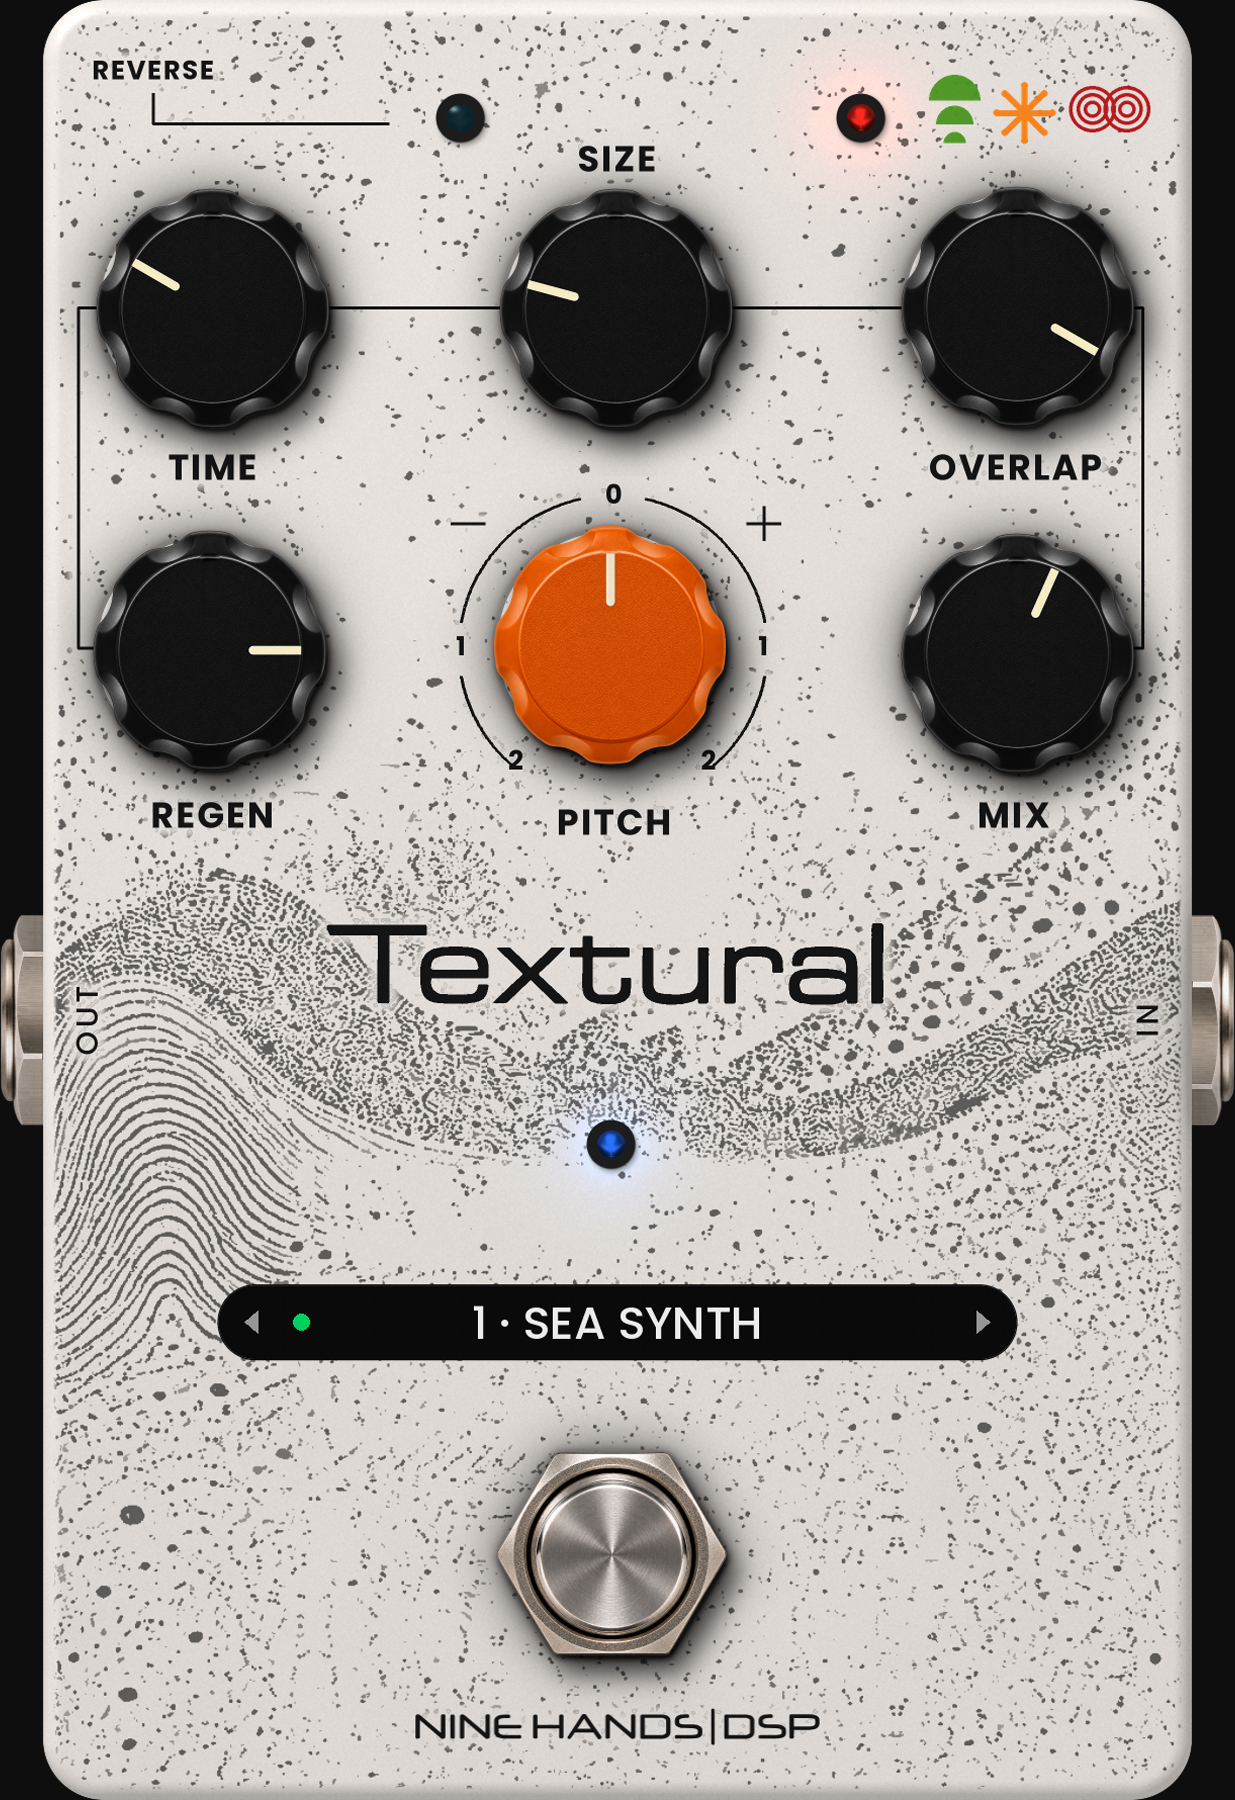
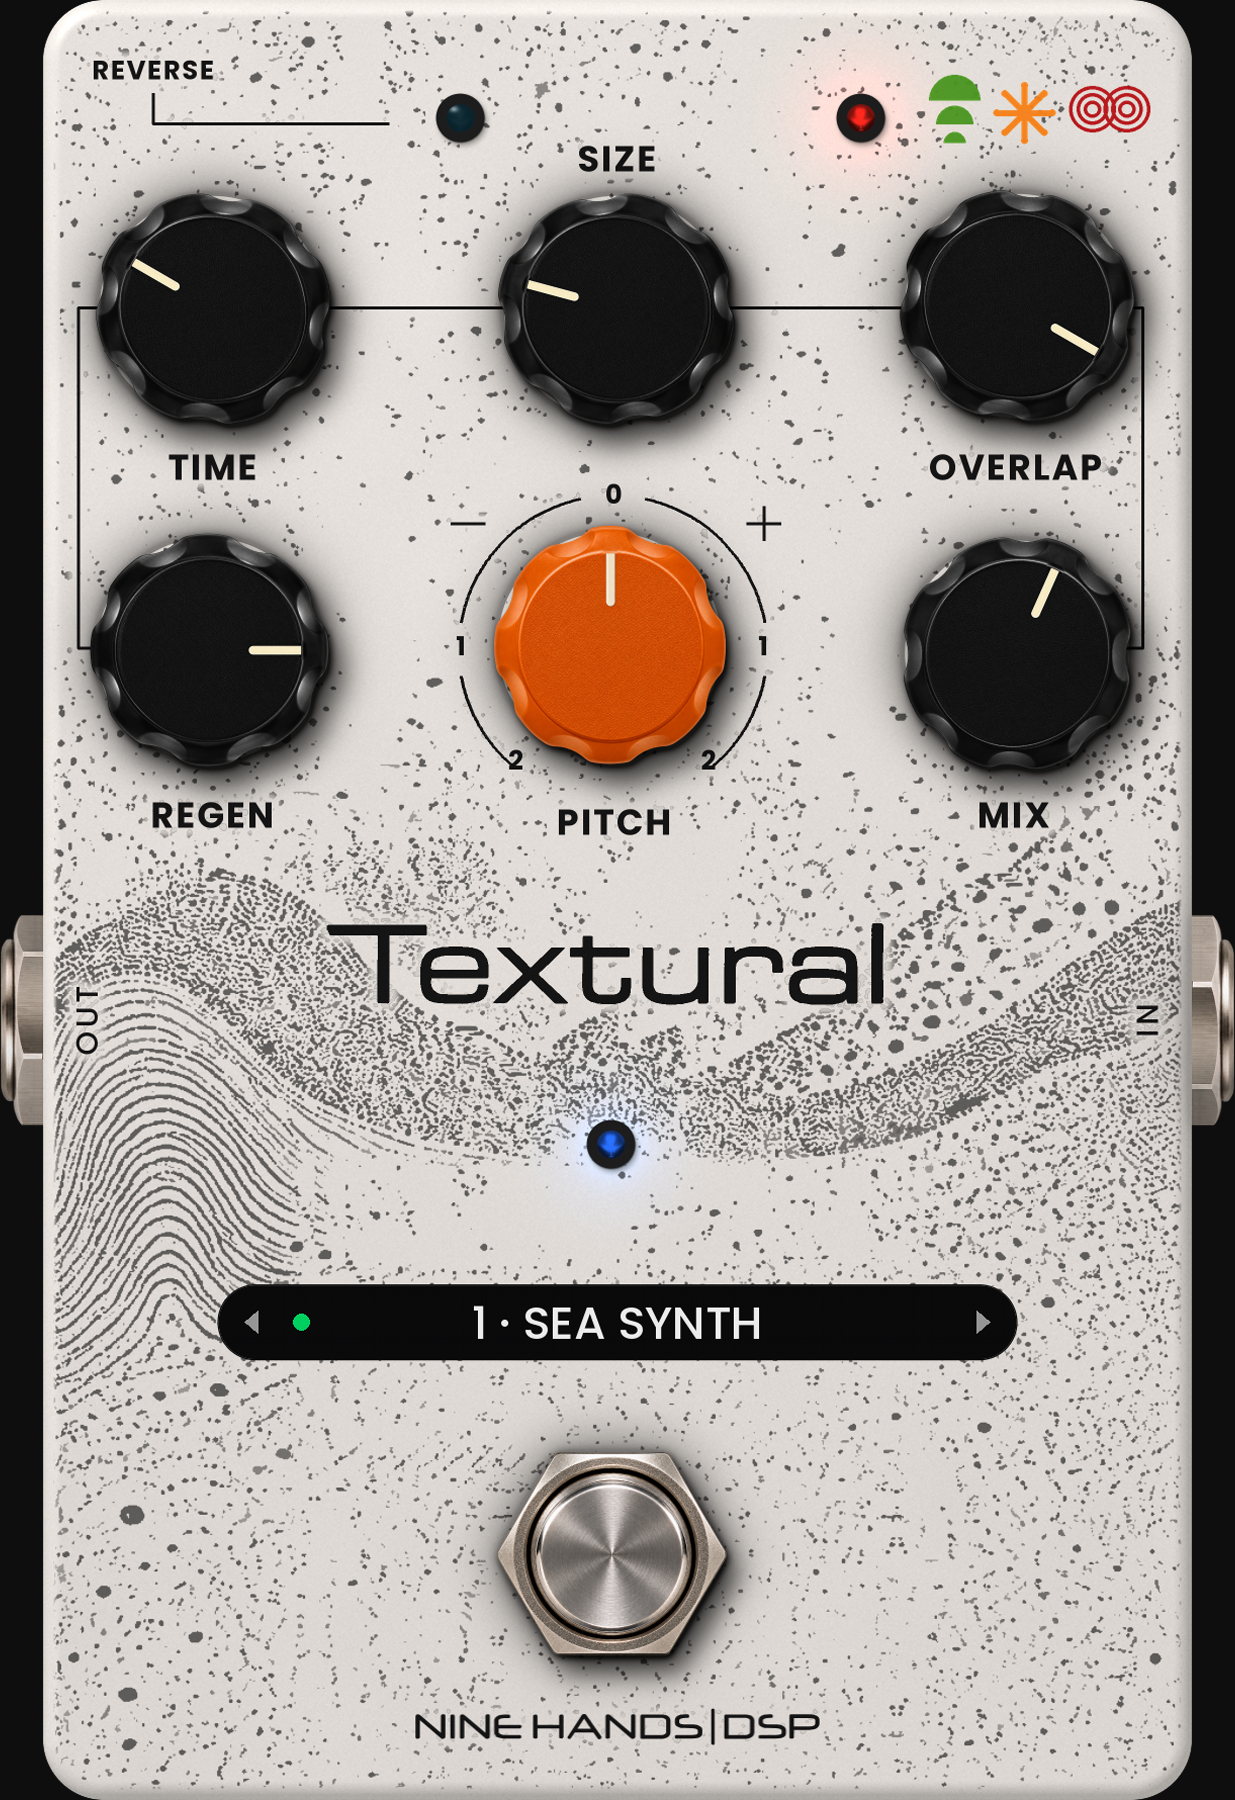
Potards : la couronne tourne avec l'index (lumiere fixe, re-eclairage polaire), flou de mouvement selon la vitesse ; GIF d'apercu
Claude-Session: https://claude.ai/code/session_01DVineguNdVkvZ7sjaqqiCM

diff --git a/tools/make_art.py b/tools/make_art.py
@@ -366,13 +366,54 @@ def knob_parts(name):
     bodyimg = np.dstack([np.clip(body_, 0, 255), a])
     return bodyimg, ind, C, 554.0
 
-def knob_sprite(name, R_units, value):
-    bodyimg, ind, C, RPX = knob_parts(name)
-    S_ = 2 * R_units * 1.45; n = int(round(S_ * AS)); k = R_units * AS / RPX
-    rgb, a = place(bodyimg, C, k, n)
-    spr = with_shadow(rgb, a, 2 * R_units * AS, 0.66)
+# Potard entier qui tourne (chapeau, index ET couronne crantee), lumiere fixe :
+# en coordonnees polaires autour du centre, l'image tourne (decalage en angle) puis est re-eclairee :
+# I(phi) = I0(phi - theta) * Lb(phi) / Lb(phi - theta), Lb = luminance moyennee sur un cran (36 degres, 10 crans).
+# Le detail (crans, cuir, index) tourne ; l'eclairage d'ensemble (haut gauche clair, bas droit sombre) reste en place.
+# Flou de mouvement : moyenne de positions voisines en angle (blur_deg = angle parcouru pendant l'image).
+from scipy.ndimage import uniform_filter1d
+_KPOL = {}
+KNOB_C, KNOB_RPX, NA = (648.0, 651.0), 554.0, 2880          # centre / rayon dans les photos, 8 lignes par degre
+def _knob_polar(name):
+    if name not in _KPOL:
+        bodyimg, ind, _, _ = knob_parts(name)                 # potard sans son index (secteur rempli par un cran voisin)
+        im = bodyimg; pm = im.copy(); pm[..., :3] *= pm[..., 3:4] / 255.0
+        RR = int(KNOB_RPX * 1.06)
+        pol = cv2.warpPolar(pm, (RR, NA), KNOB_C, RR, cv2.WARP_POLAR_LINEAR | cv2.INTER_CUBIC)
+        lum = pol[..., :3].mean(2) + 1.0
+        lb = uniform_filter1d(lum, size=NA // 10, axis=0, mode='wrap')
+        lb = cv2.GaussianBlur(lb, (0, 0), sigmaX=6, sigmaY=0.1)
+        _KPOL[name] = (pol, lb, RR, im.shape[:2], ind)
+    return _KPOL[name]
+def knob_render(name, ang, blur_deg=0.0):
+    """potard tourne de ang degres (sens horaire, 0 = index en haut) ; renvoie rgba non premultiplie (taille photo)"""
+    pol, lb, RR, (hh, ww), ind = _knob_polar(name)
+    nb = max(1, int(round(abs(blur_deg) / 0.75))) if blur_deg else 1
+    offs = np.linspace(-blur_deg / 2, blur_deg / 2, nb) if nb > 1 else [0.0]
+    acc = np.zeros_like(pol)
+    for o in offs:
+        k = int(round((ang + o) * NA / 360.0))
+        rp = np.roll(pol, k, axis=0)
+        ratio = lb / np.roll(lb, k, axis=0)
+        rp[..., :3] *= np.clip(ratio, 0.55, 1.8)[..., None]
+        acc += rp
+    acc /= len(offs)
+    out = cv2.warpPolar(acc, (ww, hh), KNOB_C, RR, cv2.WARP_POLAR_LINEAR | cv2.WARP_INVERSE_MAP | cv2.INTER_CUBIC)
+    _yy, _xx = np.mgrid[0:hh, 0:ww]
+    out[np.hypot(_xx - KNOB_C[0], _yy - KNOB_C[1]) > RR - 2] = 0     # rien hors du disque polaire
+    a = np.clip(out[..., 3:4] / 255.0, 0, 1)
+    rgb = np.where(a > 1e-4, out[..., :3] / np.maximum(a, 1e-4), 0)
+    return np.dstack([np.clip(rgb, 0, 255), a[..., 0] * 255]).astype(np.float32)
+
+def knob_sprite(name, R_units, value, blur_deg=0.0):
+    S_ = 2 * R_units * 1.45; n = int(round(S_ * AS)); k = R_units * AS / KNOB_RPX
     ang = -150 + 300 * value
-    irgb, ia = place(ind, C, k, n, ang)
+    img_ = knob_render(name, ang, blur_deg)
+    rgb, a = place(img_, KNOB_C, k, n)
+    spr = with_shadow(rgb, a, 2 * R_units * AS, 0.66)
+    # index : tourne avec le potard, garde sa propre lumiere (creme), net (il n'a pas de crans)
+    ind = _knob_polar(name)[4]
+    irgb, ia = place(ind, KNOB_C, k, n, ang)
     ia = ia * a
     spr[..., :3] = spr[..., :3] * (1 - ia[..., None]) + irgb * ia[..., None]
     return spr, S_

diff --git a/tools/knob_gif.py b/tools/knob_gif.py
@@ -1,0 +1,22 @@
+import sys, numpy as np
+from PIL import Image
+src = open('/home/claude/textural/tools/make_art.py').read()
+g = {'__file__': '/home/claude/textural/tools/make_art.py'}
+exec(src[:src.index('# ------------------------------------------------------------------ geometrie')], g)
+exec(src[src.index('def knob_parts'):src.index('# occlusion autour des pieces en relief')], g)
+R = 60.0; bg = np.array([222.0, 217.0, 212.0]); CRAN = 36.0
+def frame(name, v, dv):
+    d = abs(dv) * 300.0                                  # degres parcourus pendant l'image
+    t = d / CRAN; lvl = np.clip((t - 0.15) / 0.6, 0, 1.6)
+    blur = 0.0 if lvl <= 0 else min(d, CRAN * 0.6 * min(lvl, 1.0) + CRAN * 0.4 * max(0, lvl - 1))
+    s, S_ = g['knob_sprite'](name, R, v, blur)
+    a = s[..., 3:4] / 255.0
+    return bg * (1 - a) + s[..., :3] * a
+vals = list(np.linspace(0, 1, 60)) + list(np.linspace(1, 0, 12)) + list(np.linspace(0, 0.5, 6)) + [0.5] * 15
+frames = []
+for i, v in enumerate(vals):
+    dv = v - vals[i - 1] if i else 0.0
+    im = np.concatenate([frame('knob_black_photo.png', v, dv), frame('knob_orange_photo.png', v, dv)], 1)
+    frames.append(Image.fromarray(np.clip(im, 0, 255).astype(np.uint8)))
+frames[0].save(sys.argv[1], save_all=True, append_images=frames[1:], duration=33, loop=0, optimize=True)
+print(len(frames))
